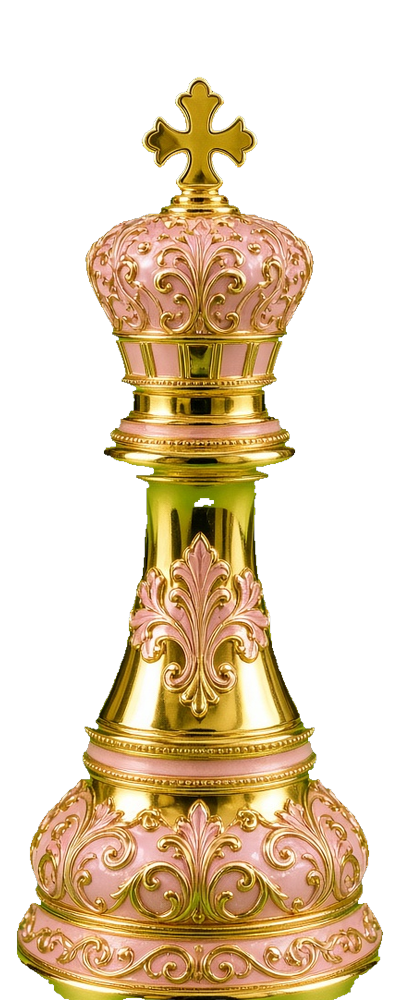
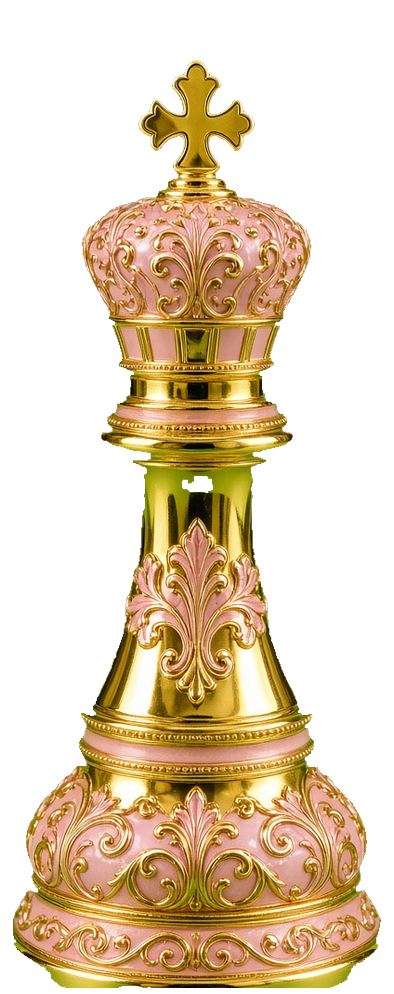
Update goldpink pieces.

diff --git a/play-rooms.js b/play-rooms.js
@@ -259,7 +259,7 @@ window.bwRateGame=async function(sb, room, me, winnerSide){
     var set=setId||document.body.getAttribute("data-set")||"classic";
     var L=(letter||"P").toUpperCase();
     var s=side==="b"?"b":"w";
-    if(set==="gold") return (s==="w"?"piece-gold-w-":"piece-silver-b-")+L+".png?v=5";
+    if(set==="gold") return (s==="w"?"piece-gold-w-":"piece-silver-b-")+L+".png?v=9";
     if(set==="cobalt") return "piece-"+s+"-"+L+".png?v=14";
     return (s==="w"?"piece-parlor-w-":"piece-parlor-b-")+L+".png?v=6";
   }
